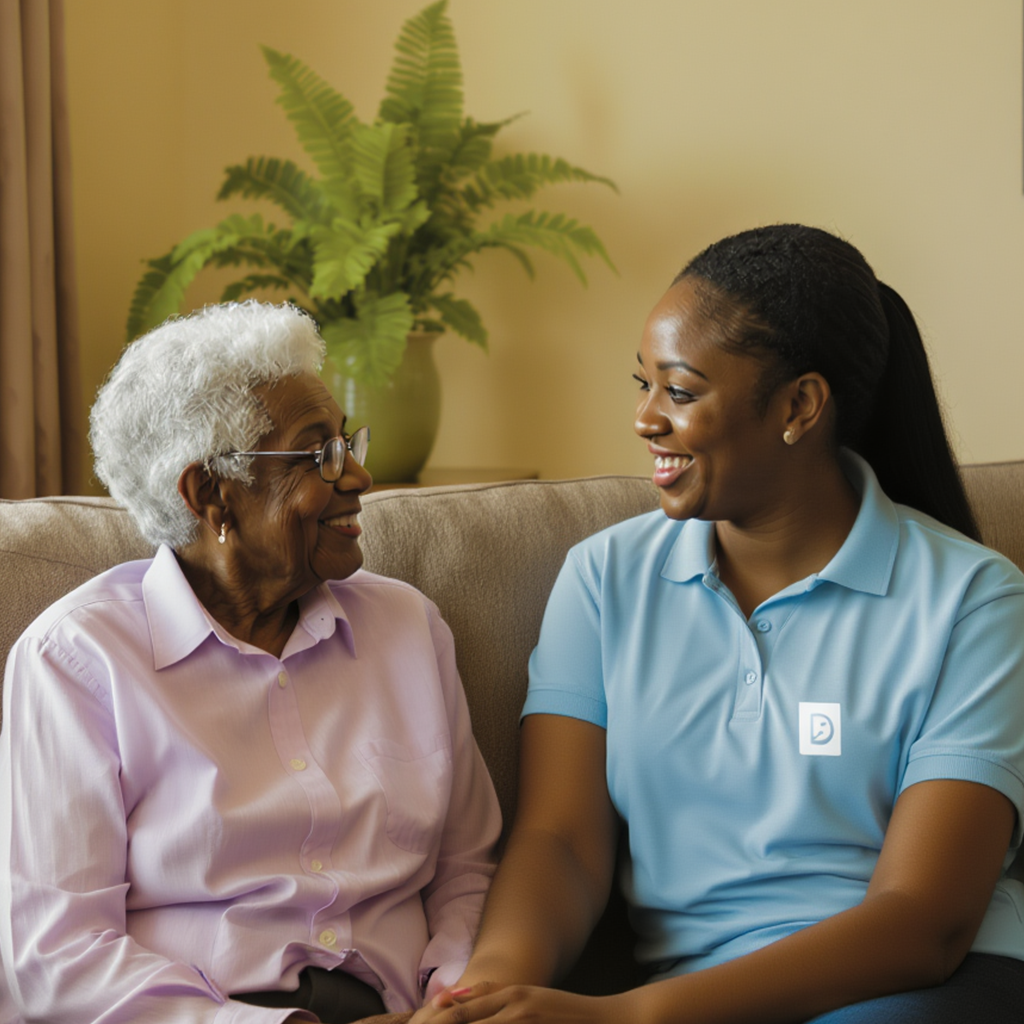
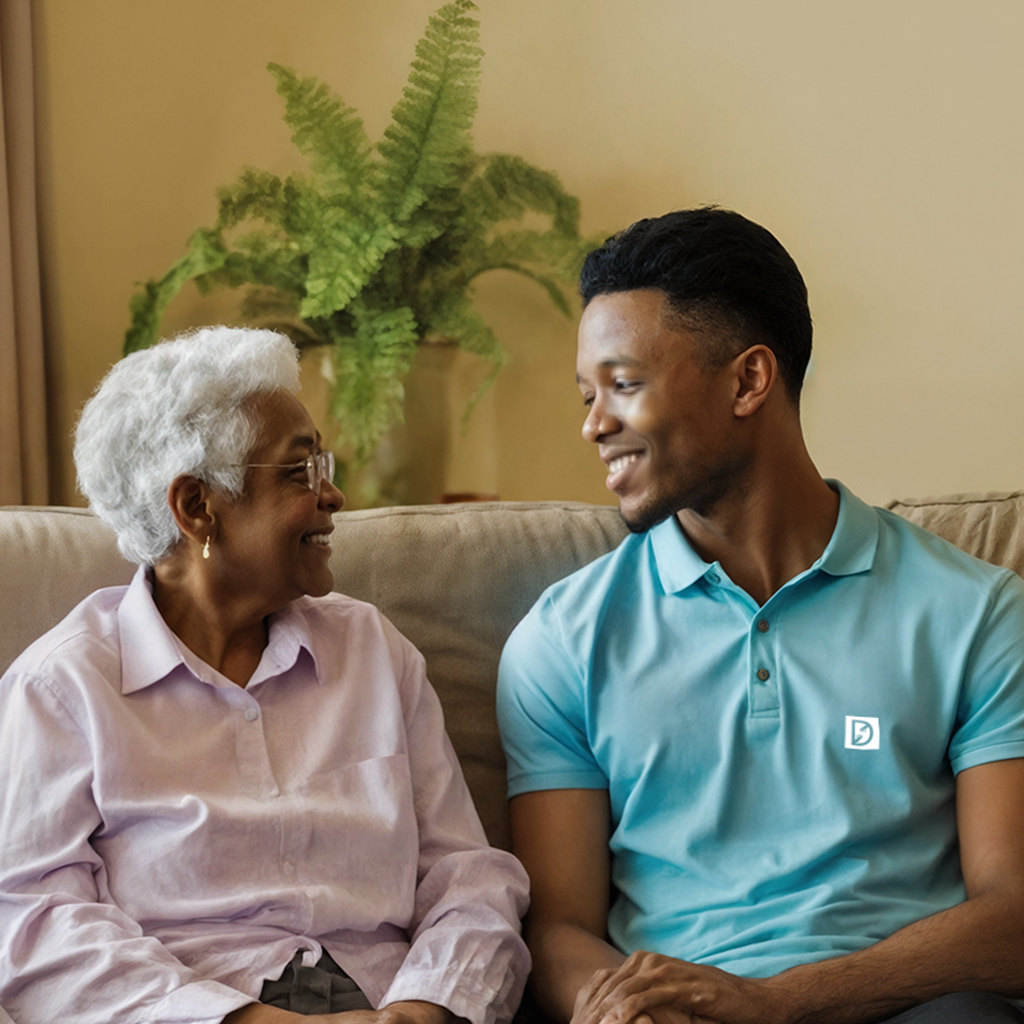
Update image and heading in index.html
Replaced 7.png with new 8.png image and updated the heading 'Our services' to 'Our Services' for consistency. Added 8.png to assets and updated references in index.html.

diff --git a/index.html b/index.html
@@ -323,7 +323,7 @@ h1.has-background,h2.has-background,h3.has-background,h4.has-background,h5.has-b
 
 
 <div class="blockart-column blockart-column-7d05f7fa"><div class="blockart-column-inner">
-<figure class="blockart-image blockart-image-d7807ceb"><img class="wp-image-3007 hover-effect-static filter-none mask mask-none" src="assets/wp-content/uploads/2025/09/7.png" alt="" height="1024" width="1024"/></figure>
+<figure class="blockart-image blockart-image-d7807ceb"><img class="wp-image-3007 hover-effect-static filter-none mask mask-none" src="assets/wp-content/uploads/2025/09/8.png" alt="" height="1024" width="1024"/></figure>
 </div></div>
 </div></div></div>
 </div></div>
@@ -399,7 +399,7 @@ With our dedicated team, we take a holistic approach to caring for your loved on
 
 <div class="wp-block-group alignfull has-global-padding is-layout-constrained wp-container-core-group-is-layout-cb8de954 wp-block-group-is-layout-constrained" style="margin-top:var(--wp--preset--spacing--xx-large);margin-bottom:var(--wp--preset--spacing--xx-large);padding-top:0;padding-right:var(--wp--preset--spacing--x-small);padding-bottom:0;padding-left:var(--wp--preset--spacing--x-small)">
 <div class="wp-block-group has-global-padding is-layout-constrained wp-container-core-group-is-layout-f5f3bcb8 wp-block-group-is-layout-constrained">
-<h3 id="services" class="wp-block-heading has-text-align-center has-manrope-font-family has-xxx-large-font-size" style="font-style:normal;font-weight:800;line-height:1.1">Our services</h3>
+<h3 id="services" class="wp-block-heading has-text-align-center has-manrope-font-family has-xxx-large-font-size" style="font-style:normal;font-weight:800;line-height:1.1">Our Services</h3>
 
 
 
